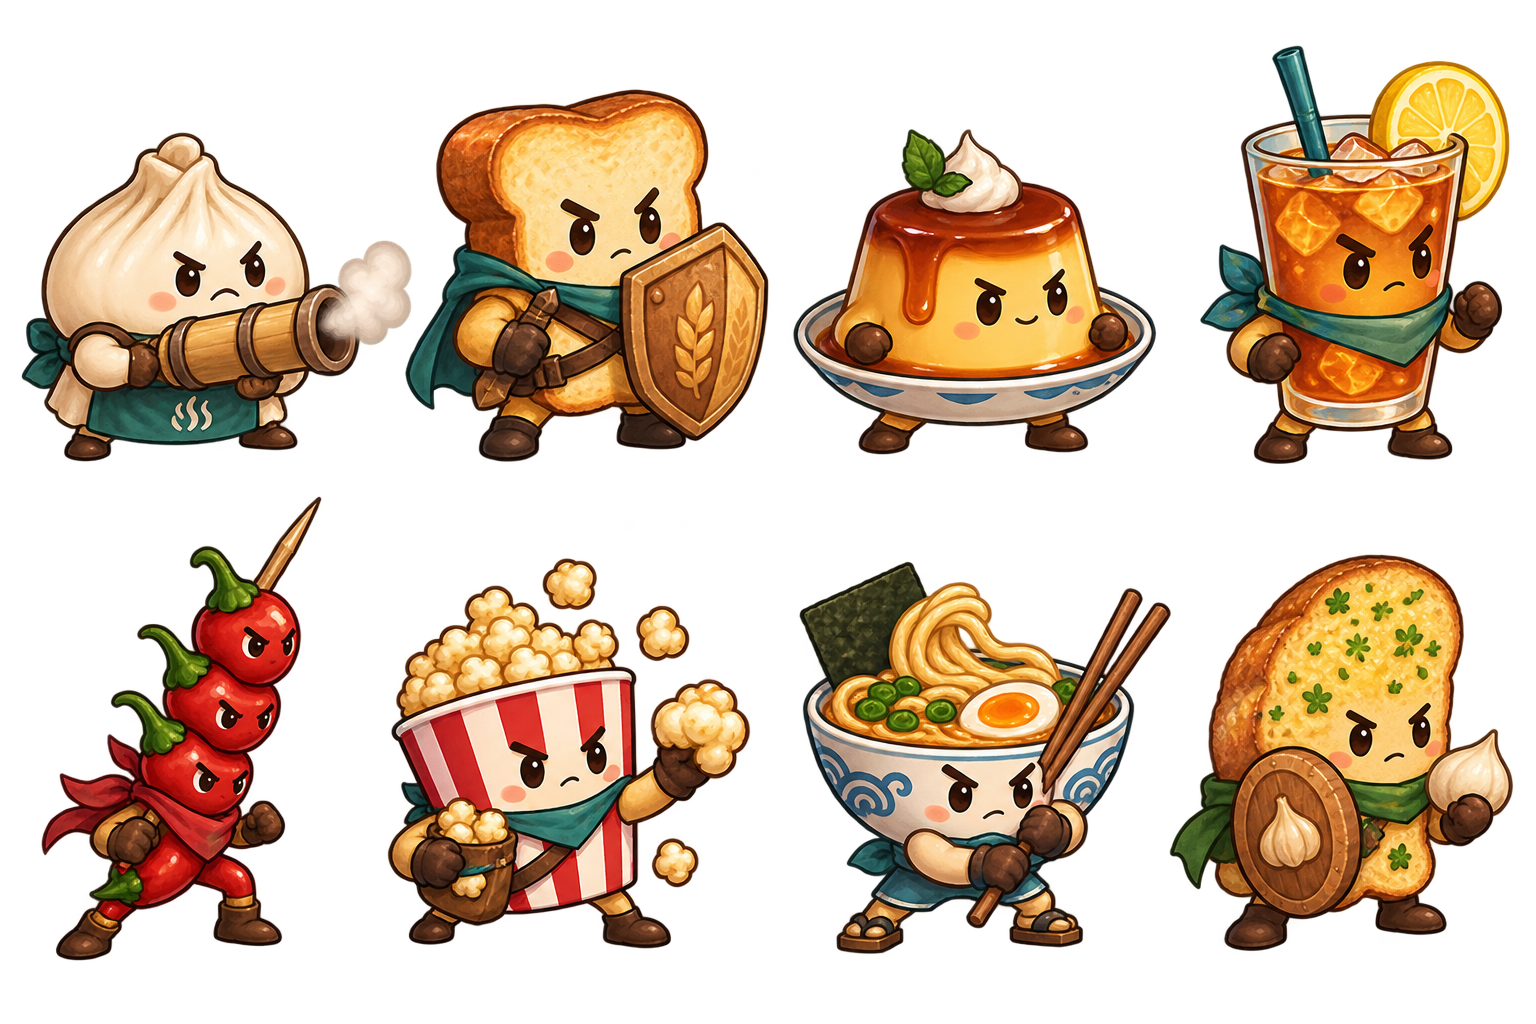
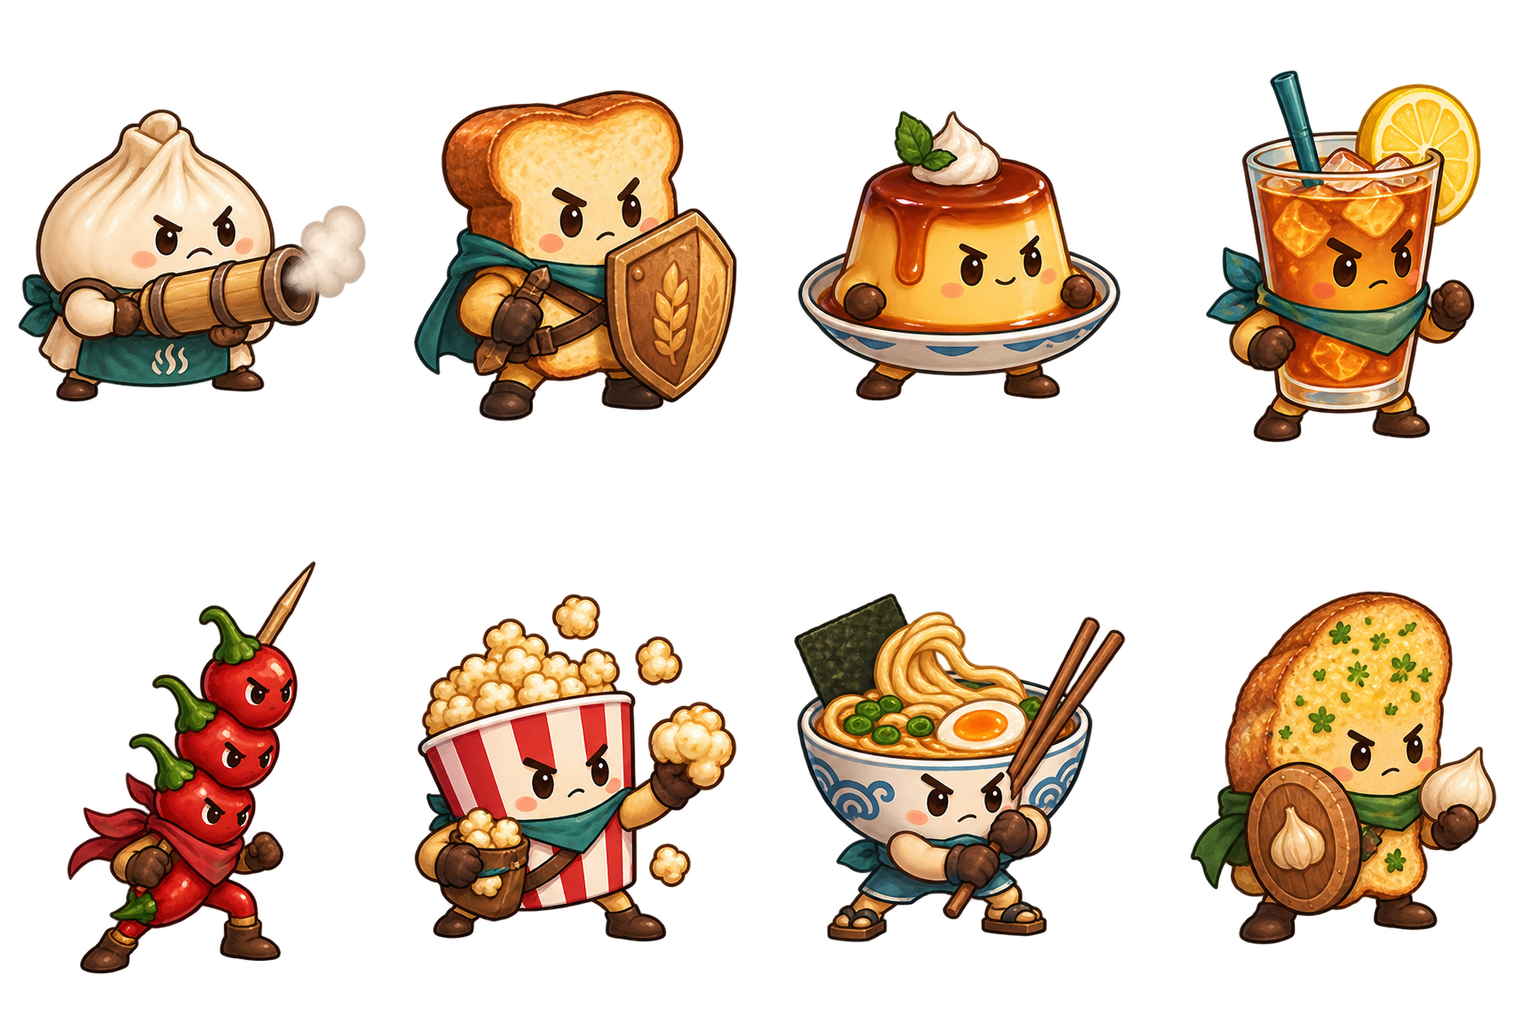
fix: 清理素材图集边缘残片并修复跨格裁切

diff --git a/tools/clean_art_atlases.py b/tools/clean_art_atlases.py
@@ -1,0 +1,132 @@
+#!/usr/bin/env python3
+"""Repair the existing RGBA atlases offline; see doc/art/asset_pack.md.
+
+Requires Pillow. Read original PNGs from --source and write to a different
+--output directory. Never use a previously cleaned atlas as the source.
+"""
+import argparse
+from collections import deque
+import json
+from pathlib import Path
+
+from PIL import Image, ImageFilter
+
+SHEETS = {"foods": 2, "mice": 2, "recipes": 3}
+CORE_ALPHA = 8
+MIN_AREA = 20
+FRINGE = 2
+PADDING = 16
+
+
+def split_subjects(image, rows):
+    width, height = image.size
+    remaining = bytearray(a > CORE_ALPHA for a in image.getchannel("A").tobytes())
+    masks = [bytearray(width * height) for _ in range(4 * rows)]
+    major_counts = [0] * len(masks)
+    kept_counts = [0] * len(masks)
+    removed = 0
+    for start in range(width * height):
+        if not remaining[start]:
+            continue
+        remaining[start] = 0
+        queue = deque([start])
+        pixels = []
+        left, top, right, bottom = width, height, 0, 0
+        while queue:
+            point = queue.popleft()
+            y, x = divmod(point, width)
+            pixels.append(point)
+            left, top = min(left, x), min(top, y)
+            right, bottom = max(right, x), max(bottom, y)
+            for nx, ny in ((x - 1, y), (x + 1, y), (x, y - 1), (x, y + 1)):
+                if 0 <= nx < width and 0 <= ny < height:
+                    neighbor = ny * width + nx
+                    if remaining[neighbor]:
+                        remaining[neighbor] = 0
+                        queue.append(neighbor)
+        if len(pixels) < MIN_AREA:
+            removed += len(pixels)
+            continue
+        column = int(((left + right) / 2) * 4 / width)
+        row = int(((top + bottom) / 2) * rows / height)
+        owner = row * 4 + column
+        kept_counts[owner] += 1
+        major_counts[owner] += len(pixels) >= 10000
+        for point in pixels:
+            masks[owner][point] = 255
+    if major_counts != [1] * len(masks):
+        raise ValueError(f"Expected one main subject per cell, got {major_counts}")
+    subjects = []
+    for data in masks:
+        mask = Image.frombytes("L", image.size, bytes(data))
+        mask = mask.filter(ImageFilter.MaxFilter(FRINGE * 2 + 1))
+        # Binary paste preserves the source alpha, including translucent edges.
+        subject = Image.new("RGBA", image.size)
+        subject.paste(image, (0, 0), mask)
+        bounds = subject.getbbox()
+        if bounds is None:
+            raise ValueError("Empty subject")
+        subjects.append(subject.crop(bounds))
+    return subjects, kept_counts, removed
+
+
+def validate(image, rows):
+    width, height = image.size
+    if image.mode != "RGBA":
+        raise ValueError("Atlas must retain alpha")
+    bounds = []
+    for row in range(rows):
+        top, bottom = round(row * height / rows), round((row + 1) * height / rows)
+        for column in range(4):
+            cell = image.crop((column * width // 4, top, (column + 1) * width // 4, bottom))
+            box = cell.getbbox()
+            if box is None:
+                raise ValueError("Empty cell")
+            left, upper, right, lower = box
+            if min(left, upper, cell.width - right, cell.height - lower) < PADDING:
+                raise ValueError(f"Insufficient transparent gutter: {box}")
+            bounds.append(box)
+    return bounds
+
+
+def clean(path, rows, destination):
+    with Image.open(path) as source:
+        image = source.copy()
+    if image.mode != "RGBA" or image.size != (1536, 1024):
+        raise ValueError(f"Unexpected source format: {path}, {image.mode}, {image.size}")
+    subjects, counts, removed = split_subjects(image, rows)
+    cell_width = image.width // 4
+    cell_height = image.height // rows
+    scale = min(1.0, *(min((cell_width - 2 * PADDING) / s.width,
+                           (cell_height - 2 * PADDING) / s.height) for s in subjects))
+    result = Image.new("RGBA", image.size)
+    for index, subject in enumerate(subjects):
+        size = (int(subject.width * scale), int(subject.height * scale))
+        # Resize premultiplied colors to avoid dark/colored transparent fringes.
+        subject = subject.convert("RGBa").resize(size, Image.Resampling.LANCZOS).convert("RGBA")
+        row, column = divmod(index, 4)
+        top, bottom = round(row * image.height / rows), round((row + 1) * image.height / rows)
+        origin = (column * cell_width + (cell_width - subject.width) // 2,
+                  top + (bottom - top - subject.height) // 2)
+        result.paste(subject, origin)
+    bounds = validate(result, rows)
+    result.save(destination)
+    return {"scale": scale, "components_per_cell": counts,
+            "discarded_small_core_pixels": removed, "cell_alpha_bounds": bounds}
+
+
+def main():
+    parser = argparse.ArgumentParser(description=__doc__)
+    parser.add_argument("--source", type=Path, required=True)
+    parser.add_argument("--output", type=Path, required=True)
+    args = parser.parse_args()
+    if args.source.resolve() == args.output.resolve():
+        parser.error("Source and output must be different directories")
+    args.output.mkdir(parents=True, exist_ok=True)
+    report = {name: clean(args.source / f"{name}.png", rows, args.output / f"{name}.png")
+              for name, rows in SHEETS.items()}
+    print(json.dumps(report, indent=2))
+
+
+if __name__ == "__main__":
+    main()

diff --git a/doc/art/asset_pack.md b/doc/art/asset_pack.md
@@ -35,7 +35,7 @@
 | [recipes.png](../../assets/art/recipes.png) | 1536×1024 RGBA | 12 食谱图标，4×3 |
 | [kitchen.png](../../assets/art/kitchen.png) | 1672×941 RGB | 深夜厨房背景 |
 
-共 28 个图集区域和 1 张背景。图集零 alpha 像素分别占 55.9%、52.9%、49.5%，实际画面确认无背景方块。原始生成图完整复制，未抠色、重绘、裁切或缩放源文件。背景输出尺寸与请求不同，运行时适配逻辑画布。
+初次交付共 28 个图集区域和 1 张背景。初版图集零 alpha 像素分别占 55.9%、52.9%、49.5%，当时画面确认无背景方块，原始生成图完整复制。当前三张图集已完成下文所述边缘修整和重新排版。背景输出尺寸与请求不同，运行时适配逻辑画布。
 
 [完整提示词](generation_prompts.md) 记录四次内置工具调用；未使用 CLI/API 密钥模式。PNG 旁 `.import` 配置随源资源保留，缓存不纳入版本控制。
 
@@ -46,3 +46,17 @@
 ## 复现窗口验收
 
 运行 `godot --path . tests/art_gallery.tscn -- --qa-test` 展示全部角色与八卡；R 显示三张不同流派食谱，P 返回小铺。该夹具不保存摆盘，使用独立 QA 存档目录，发行预设已有 `tests/*` 排除规则。完整结果见 [美术验收](../testing/art_pack.md)。
+
+## 图集边缘修整（2026-09-13）
+
+状态：已实现，静态对照与原生渲染验收通过；见 [修整验证](../testing/asset_edges.md)。对应「使用体验」美术缺陷修复。
+
+现有等分区域存在主体跨格：例如小笼包蒸汽、灰鼠尾巴及鼠大厨帽子，会在相邻区域形成残片或平直切面。修整三张透明图集，保持原有 ID 顺序、4×2／4×3 布局和角色辨识特征；每格完整包含主体、附属物和有意保留的蒸汽／粒子，并在四边留透明安全距离。清理孤立杂色及背景残留，保留抗锯齿与合理半透明效果，不全局硬阈值裁剪。
+
+验收：逐格检查完整轮廓与透明留白；Godot 导入无错误；原生窗口复核角色、卡牌及食谱。数值、输入和存档接口不变，无新增运行依赖。最终程序参数和实际验证结果见 [修整验证](../testing/asset_edges.md)。
+
+本轮诊断：原图 alpha > 30 的像素穿过等分界线；foods 在 x=384／768／1152 分别为 99／19／66 个，y=512 为 15 个；mice 在 x=384／1152 为 19／257 个，y=512 为 177 个；recipes 在 y≈683 为 49 个。Codex 内置 image_gen 三次参考图修整均返回 RGB（无 alpha），未接入，源图未修改。用户续办后已按下述程序方案完成修整，未采用生成式修图输出。Godot 4.6.3 下现有 12 组逻辑回归通过，仅作为修改前基线，不表示边缘缺陷已修复。
+
+用户续办后采用程序修整，规则如下：在整张原图上按 alpha > 8 的四邻域连通区域识别主体，避免先按网格截断角色；保留面积至少 20 像素的区域（包括独立爆米花、冰屑、火星），将区域按包围盒中心归入原有单元。向外恢复两像素范围内的原始半透明边缘，不替换主体颜色，不以硬阈值重画轮廓。每张图集统一等比缩小至所有单元均有至少 16 像素透明留白，逐格居中；不放大、拉伸或更改 ID 顺序。透明区 RGB 归零以免缩放采样引入杂色。源文件路径及尺寸保持不变。
+
+处理脚本仅用于离线资产维护，依赖本机 Pillow（实际版本记入验收），不增加游戏运行依赖。脚本以独立输入／输出目录运行，不允许覆盖输入。原图可从修整前的 Git 版本恢复，游戏仅使用修整后的 PNG。验收必须覆盖 alpha 分界线、逐格浅／深底预览，以及原生 Godot 画面；单靠连通区域数量不能证明美术正确。

diff --git a/doc/testing/asset_edges.md b/doc/testing/asset_edges.md
@@ -1,0 +1,43 @@
+# 图集边缘修整验证
+
+状态：已实现，所列检查通过。日期：2026-09-13。
+环境：macOS、Apple M4、Godot 4.6.3 stable、Compatibility OpenGL 4.1 Metal、1280×720。
+范围：工作区三张 PNG、离线处理工具及回归测试；修整前源图版本为 `a90a21b0677a8b3f823bf4d608e7af0378787835`。
+规则权威说明见 [美术资源包](../art/asset_pack.md#图集边缘修整2026-09-13)。
+
+## 修复结果
+
+修整 8 美食、8 鼠群、12 食谱。源路径、1536×1024 RGBA 尺寸和 ID 顺序保持不变，原有 AtlasTexture 引用直接使用新 PNG。
+
+| 图集 | 全图统一缩放系数 | 修整后全透明像素占比 | 已复核细节 |
+|---|---:|---:|---|
+| foods | 0.891139 | 65.87% | 完整包子蒸汽、辣椒串尖端、盘沿、筷子；保留独立爆米花 |
+| mice | 0.848193 | 67.84% | 灰鼠完整尾巴、鼠大厨帽子和汤勺；锅盖鼠不再带相邻骨头残片 |
+| recipes | 0.927928 | 58.83% | 烤炉烟囱完整；保留蒸汽、食材、冰屑、火焰及闪光 |
+
+每格四边至少有 16 像素全透明留白。主体为原画分离后统一等比缩小，未重新生成造型；画面中的素材相应略小。28 个单元均保留一个主要主体，不能把独立食材或特效误判为杂色而全部移除。
+
+## 实际执行
+
+- 逐格生成修整前后对照图，在深青和浅米色底上目视检查全部 28 个素材。已确认跨格切面及相邻残片消失，无背景方块，原主体和有意粒子保留。
+- 离线检查读取真实 alpha；三张旧图均触发留白不足，新图全部通过。检查不依据 RGB 底色或图片查看器的透明显示推断。
+- `Godot --headless --path . --editor --import --quit` 成功，三张 PNG 重新导入，无新增解析错误、缺失引用或 UID 改动。
+- `python3 tools/run_tests.py`：13 组全部 PASS，含新增 [test_art.gd](../../tests/test_art.gd)。新增回归读取 Godot 导入后的 alpha，检查全部 28 个切片非空、16 像素透明边带、ID 和 `filter_clip`。
+- 原生渲染使用 `tests/art_gallery.tscn`，未使用 headless。临时 SceneTree 驱动先关闭小铺、再打开小铺，并分四页设置食谱候选，每次等待重建及绘制完成后导出 viewport PNG。目视复核棋盘 16 角色、顶部八卡、小铺三商品及全部 12 食谱图标，未见截断、串图或透明背景杂块。
+- 截图、对照图和修改前备份位于本机临时目录，未放入游戏资源、存档或版本控制。
+
+本次仅替换纹理，未修改输入、动画及业务逻辑。原生画面通过渲染图复核，不宣称完成本轮真人鼠标试玩；未重新导出发行包、运行完整八关或重测性能。玩法基线中的费用、暂停、存档等项目仅沿用上述逻辑回归；原有真人和平衡验收缺口仍保留。
+
+## 离线复现
+
+[clean_art_atlases.py](../../tools/clean_art_atlases.py) 使用已安装的 Pillow 11.3.0，仅用于开发期处理 PNG，不增加 Godot 运行依赖。来源：[Pillow 项目](https://python-pillow.org/)，许可为 MIT-CMU（依据本机包元数据）。
+
+从上述 Git 版本导出 `assets/art/foods.png`、`mice.png`、`recipes.png` 至独立目录，再执行：
+
+```sh
+python3 tools/clean_art_atlases.py --source /path/to/original --output /path/to/clean
+```
+
+脚本拒绝同目录输入输出，执行后逐图验证留白并打印缩放和区域统计。不可把当前已修整 PNG 当作原始输入重复处理，否则会再次缩小；接入前必须复核透明与逐格对照。文件源于本项目原有图像，不增加第三方美术。
+
+此前三次内置 image_gen 修图输出为 RGB，未纳入交付；最终交付采用用户续办后授权的程序处理。

diff --git a/doc/README.md b/doc/README.md
@@ -21,6 +21,7 @@
 | [art/perspective.md](art/perspective.md) | 正交棋盘、顶部卡牌、底部操作栏与鼠标命中 | 紧凑顶栏与棋盘再次扩展已实现，验证见专页 |
 | [art/asset_pack.md](art/asset_pack.md) | 29 项美术内容、规格、映射与接入 | 已生成并接入 |
 | [art/generation_prompts.md](art/generation_prompts.md) | 四类资源的完整生成提示词 | 已记录 |
+| [testing/asset_edges.md](testing/asset_edges.md) | 图集透明边缘、跨格残片修复与验证 | 已修整；逐格对照、导入与原生渲染通过 |
 | [testing/art_pack.md](testing/art_pack.md) | 美术导入、窗口及性能验收 | 见实际记录 |
 | [testing/layout.md](testing/layout.md) | 正交棋盘与顶部 UI 验证 | 自动及渲染检查通过，鼠标复验待完成 |
 | [releases/0.1.0.md](releases/0.1.0.md) | macOS 导出与启动、存档兼容性 | 本机导出启动通过 |

diff --git a/doc/testing/art_pack.md b/doc/testing/art_pack.md
@@ -14,6 +14,10 @@
 - 窗口观察覆盖较小窗口和放大后的窗口；后者保持比例并出现黑边，八卡完整可见。未做所有桌面 DPI／多显示器组合测试。
 - 图集区域由 AtlasTexture 缓存，源 PNG、导入配置及新 GDScript UID 保留；发行预设已有 tests/* 排除规则。
 
+## 后续边缘缺陷修复
+
+初次检查未发现的跨格碎片、断尾和截帽问题已通过重新分离、排版图集修复，详细证据与当前验证见 [图集边缘修整](asset_edges.md)。初次目视结果不代表像素级裁切正确。
+
 ## 限制
 
 本次不重新导出发行包，不代表发行包已更新。未进行完整八关真人视觉回归、所有食谱逐个鼠标选择、全部攻击动作动画或多设备测试。角色为单姿势图集与程序浮动，仍无音乐；原有真人和平衡验收缺口不变。
